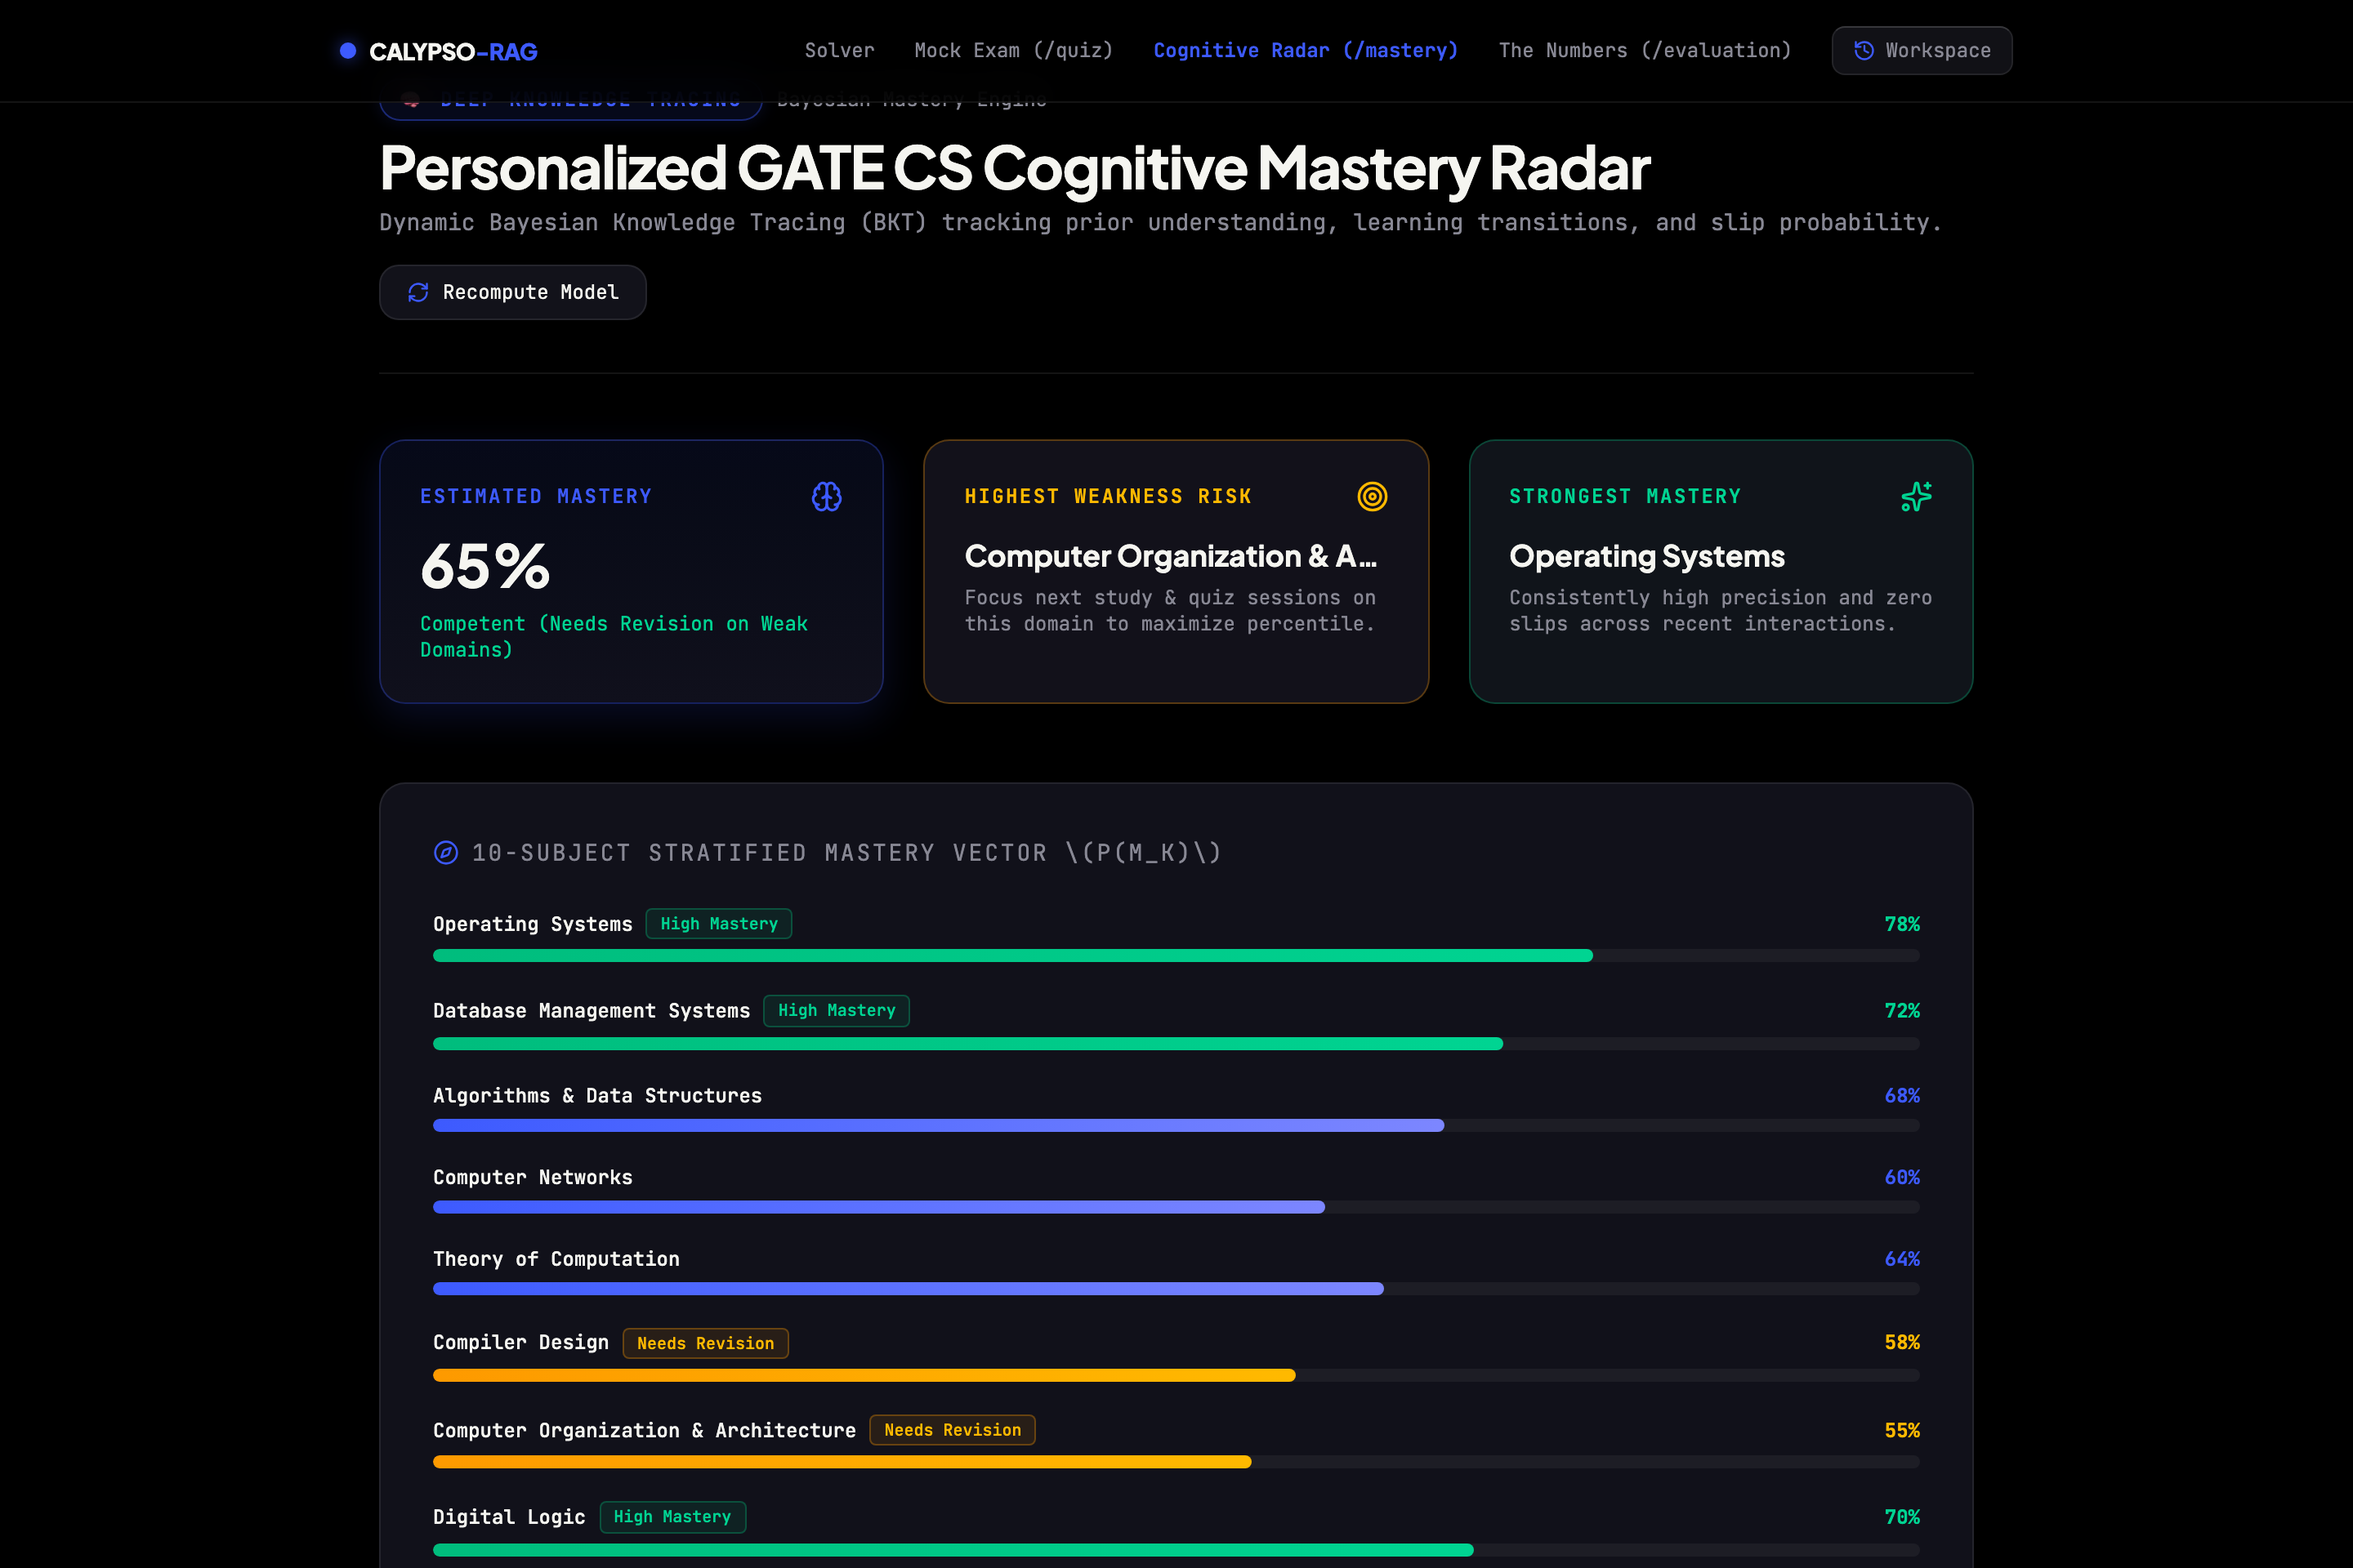
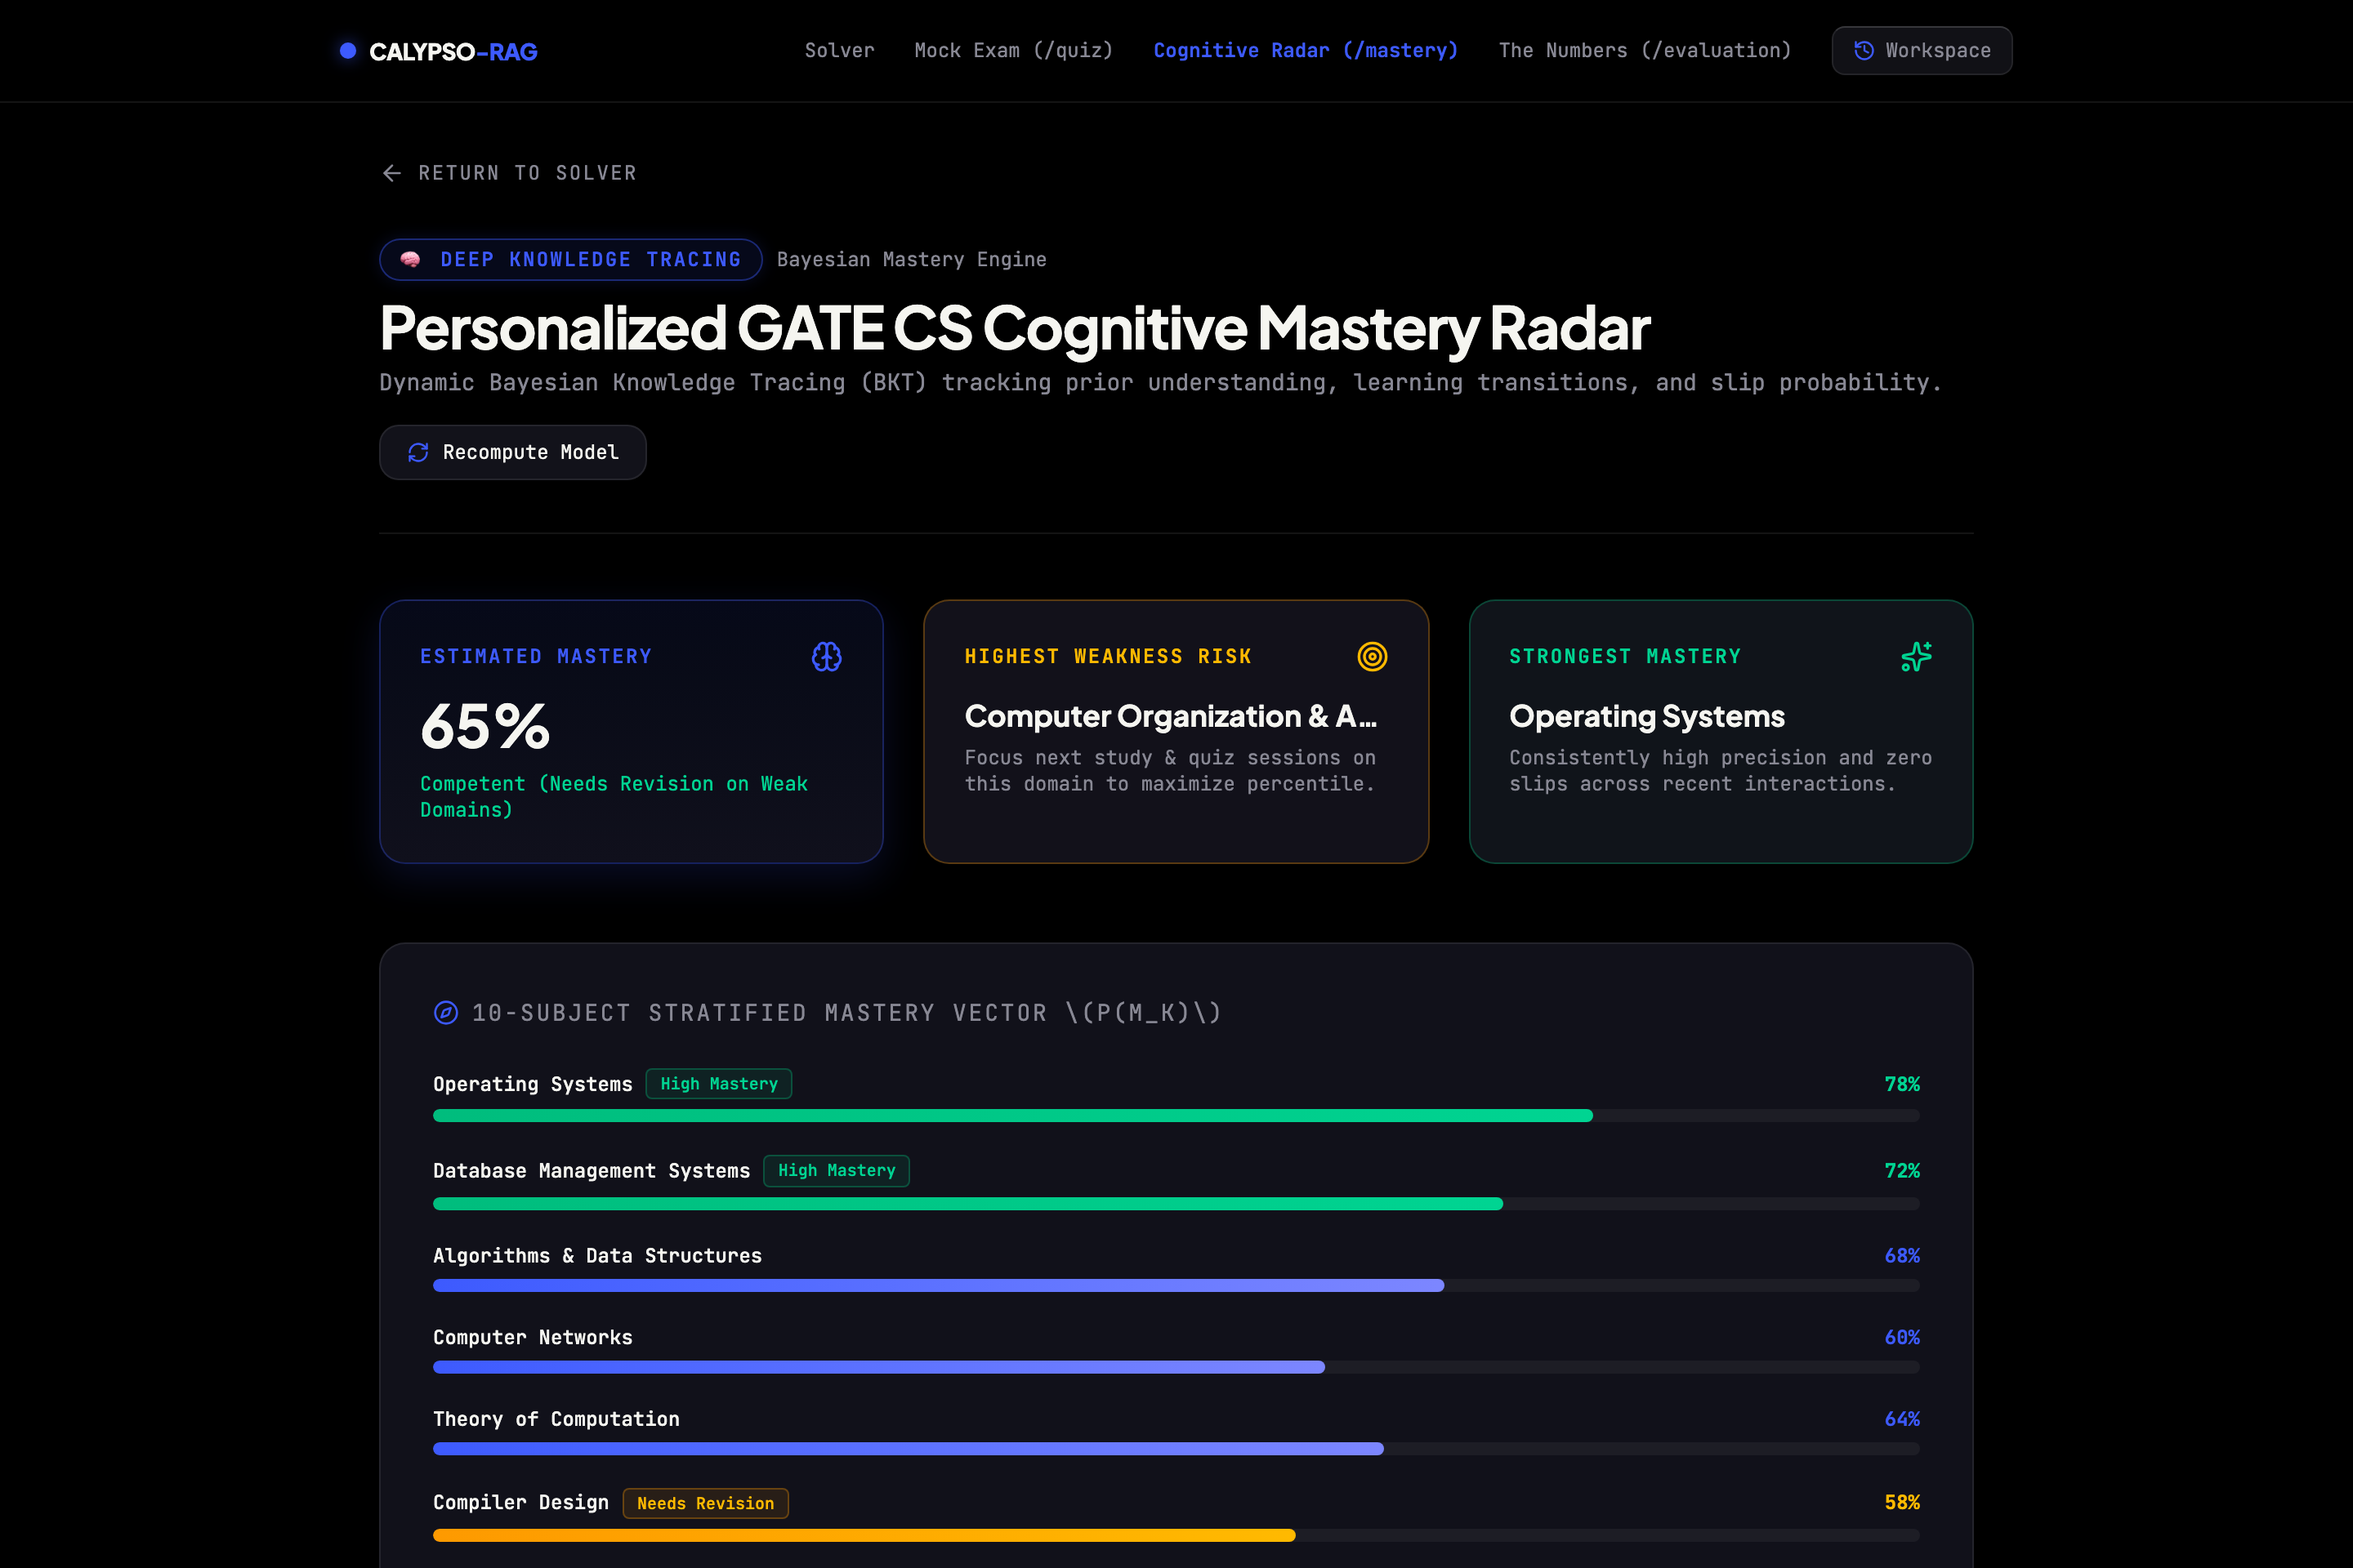
fix(ui): adjust top padding and add back-navigation on Cognitive Radar /mastery view

diff --git a/frontend/src/components/StudentMasteryView.tsx b/frontend/src/components/StudentMasteryView.tsx
@@ -1,10 +1,14 @@
 import React, { useState, useEffect } from 'react';
 import { motion } from 'framer-motion';
-import { Brain, Target, Compass, Sparkles, RefreshCw } from 'lucide-react';
+import { Brain, Target, Compass, Sparkles, RefreshCw, ArrowLeft } from 'lucide-react';
 import { fetchStudentMastery } from '../services/api';
 import type { StudentMasteryProfile } from '../types';
 
-export const StudentMasteryView: React.FC = () => {
+interface StudentMasteryViewProps {
+  onBack?: () => void;
+}
+
+export const StudentMasteryView: React.FC<StudentMasteryViewProps> = ({ onBack }) => {
   const [profile, setProfile] = useState<StudentMasteryProfile | null>(null);
   const [loading, setLoading] = useState(true);
 
@@ -35,7 +39,7 @@ export const StudentMasteryView: React.FC = () => {
 
   if (loading) {
     return (
-      <div className="max-w-5xl mx-auto px-6 py-20 text-center font-mono text-muted-gray">
+      <div className="pt-32 pb-28 max-w-5xl mx-auto px-6 text-center font-mono text-muted-gray">
         <RefreshCw className="w-6 h-6 animate-spin mx-auto text-accent mb-3" />
         <span>Computing Bayesian Knowledge Tracing (BKT) Cognitive Profile...</span>
       </div>
@@ -45,7 +49,18 @@ export const StudentMasteryView: React.FC = () => {
   if (!profile) return null;
 
   return (
-    <div className="max-w-5xl mx-auto px-6 py-12">
+    <div className="pt-24 pb-28 px-4 sm:px-6 max-w-5xl mx-auto">
+      {/* Return to Solver / Top Navigation Bar */}
+      {onBack && (
+        <button
+          onClick={onBack}
+          className="inline-flex items-center gap-2 text-xs font-mono uppercase tracking-widest text-muted-gray hover:text-accent transition-colors mb-8 cursor-pointer"
+        >
+          <ArrowLeft className="w-4 h-4" />
+          <span>Return to Solver</span>
+        </button>
+      )}
+
       {/* Header */}
       <div className="mb-10 text-center sm:text-left border-b border-white/[0.08] pb-8 flex flex-wrap items-center justify-between gap-4">
         <div>
@@ -58,6 +73,7 @@ export const StudentMasteryView: React.FC = () => {
           <h1 className="text-3xl sm:text-4xl font-display font-bold text-off-white tracking-tight">
             Personalized GATE CS Cognitive Mastery Radar
           </h1>
+
           <p className="text-sm font-mono text-muted-gray mt-1">
             Dynamic Bayesian Knowledge Tracing (BKT) tracking prior understanding, learning transitions, and slip probability.
           </p>

diff --git a/frontend/src/App.tsx b/frontend/src/App.tsx
@@ -313,10 +313,11 @@ export function App() {
         {currentView === 'quiz' ? (
           <QuizView onBack={() => setCurrentView('solver')} />
         ) : currentView === 'mastery' ? (
-          <StudentMasteryView />
+          <StudentMasteryView onBack={() => setCurrentView('solver')} />
         ) : currentView === 'evaluation' ? (
           <EvaluationView onBack={() => setCurrentView('solver')} />
         ) : (
+
 
           <div>
             <Hero onSearch={handleSearch} isLoading={isLoading} />
